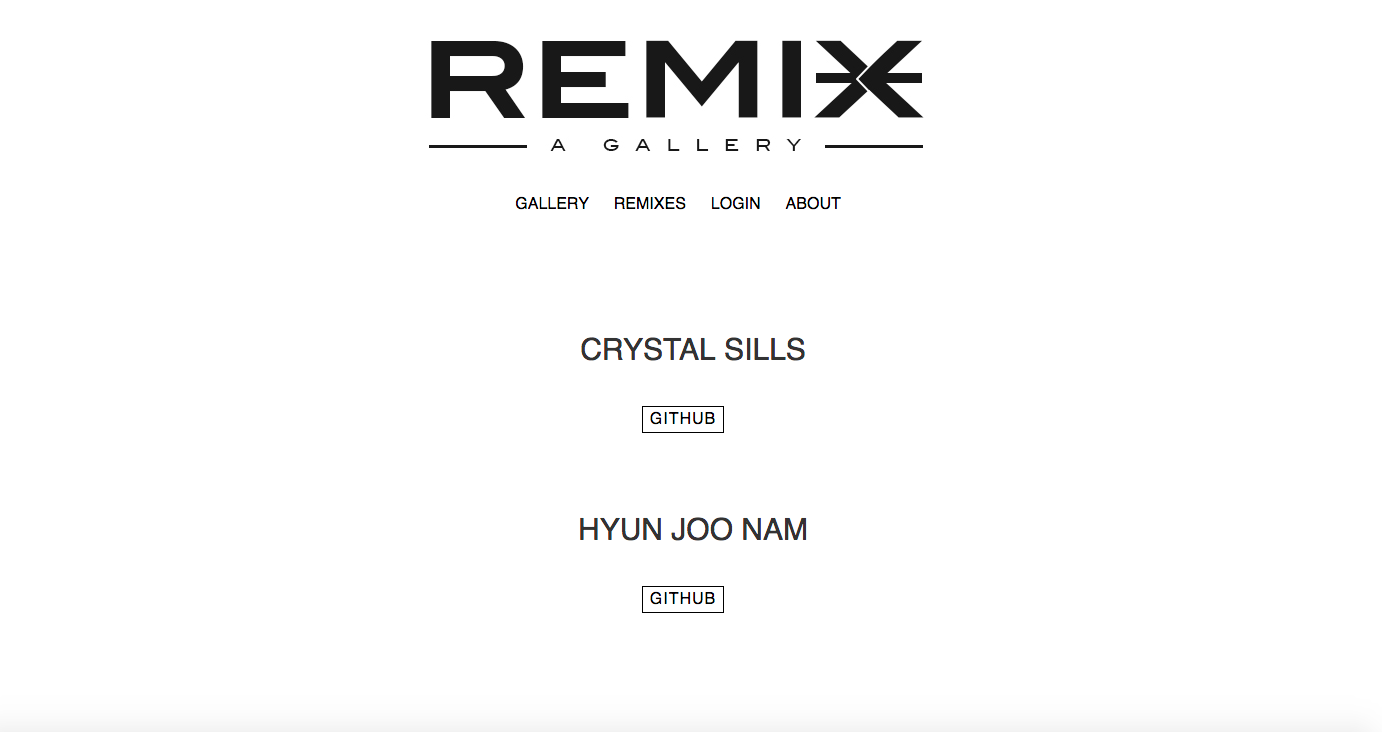
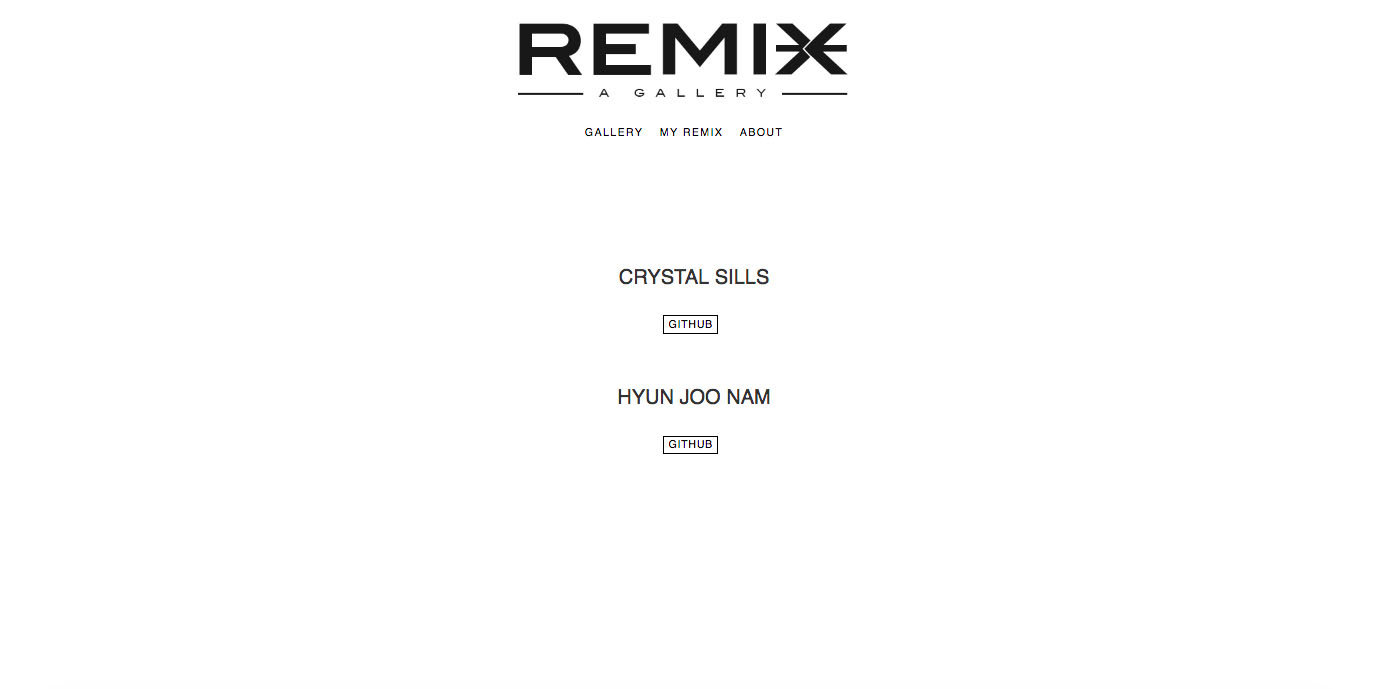
update readme

diff --git a/README.md b/README.md
@@ -50,11 +50,15 @@ A few of the things you can do with REMIX:
 </p>
 
 <p align="center">
-  <img alt="Index" title="Index" src="./client/src/img/userremixhistory.jpg" width="700">
+  <img alt="Index" title="Index" src="./client/src/img/myremix.jpg" width="700">
 </p>
 
 <p align="center">
   <img alt="Index" title="Index" src="./client/src/img/login.jpg" width="700">
+</p>
+
+<p align="center">
+  <img alt="Index" title="Index" src="./client/src/img/userremixhistory.jpg" width="700">
 </p>
 
 <p align="center">
